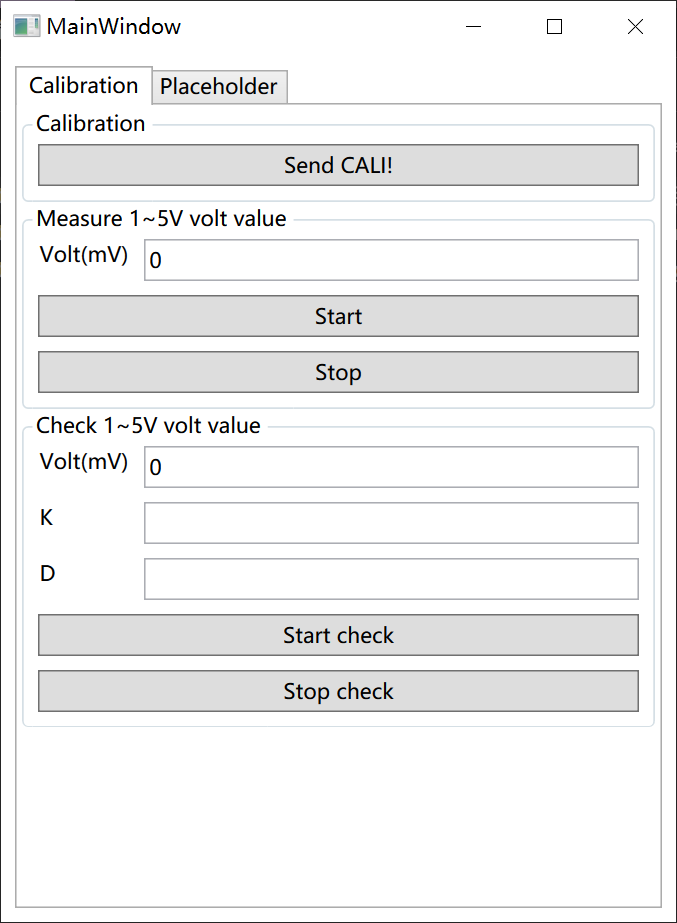
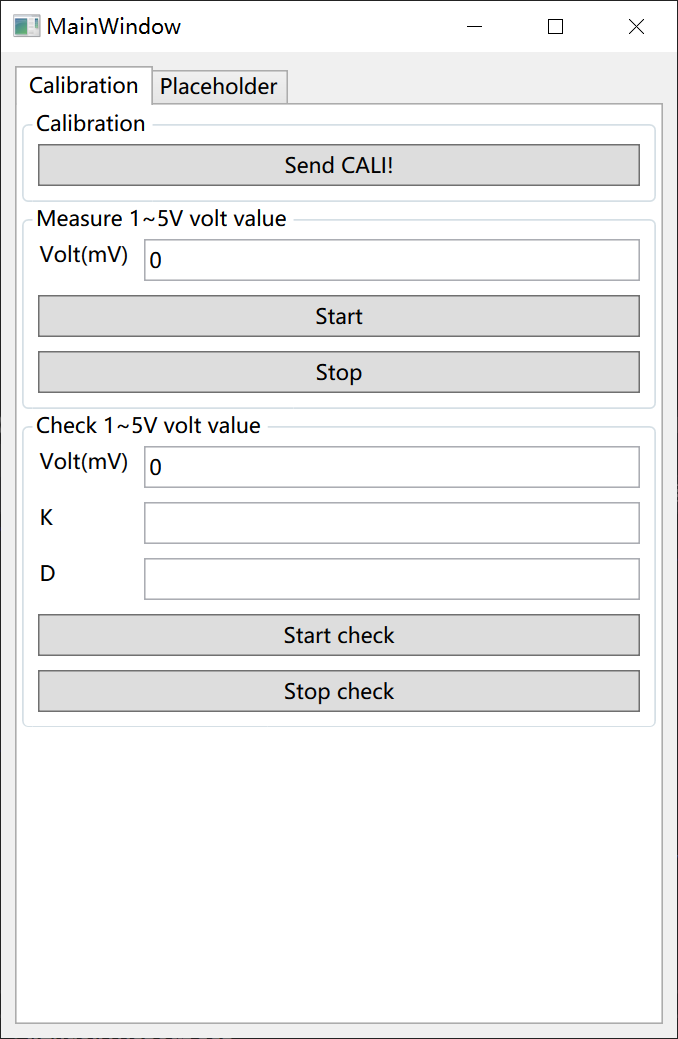
ui fix

diff --git a/MainWindow.xaml b/MainWindow.xaml
@@ -4,8 +4,8 @@
         xmlns:d="http://schemas.microsoft.com/expression/blend/2008"
         xmlns:mc="http://schemas.openxmlformats.org/markup-compatibility/2006"
         xmlns:local="clr-namespace:AutoUIDemo"
-        mc:Ignorable="d"
-        Title="MainWindow" Height="450" Width="800">
+        mc:Ignorable="d" Background="#f0f0f0"
+        Title="MainWindow" Height="600" Width="400">
     <Window.Resources>
         <Style TargetType="TextBox">
             <Setter Property="Margin" Value="4"/>
@@ -17,7 +17,7 @@
             <Setter Property="Height" Value="24"/>
         </Style>
     </Window.Resources>
-    <Grid Margin="8">
+    <Grid Margin="16">
         
     </Grid>
 </Window>
